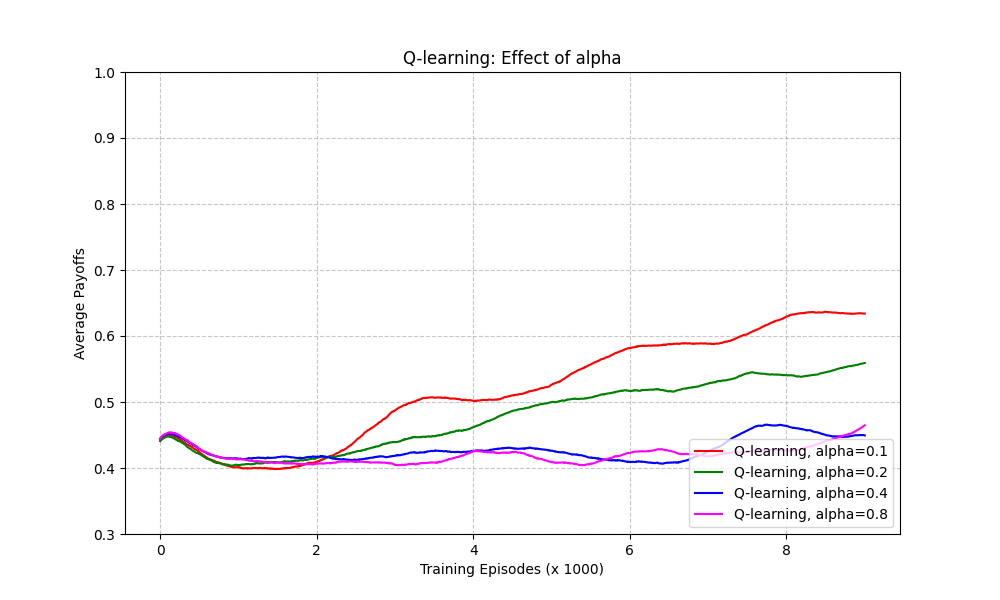
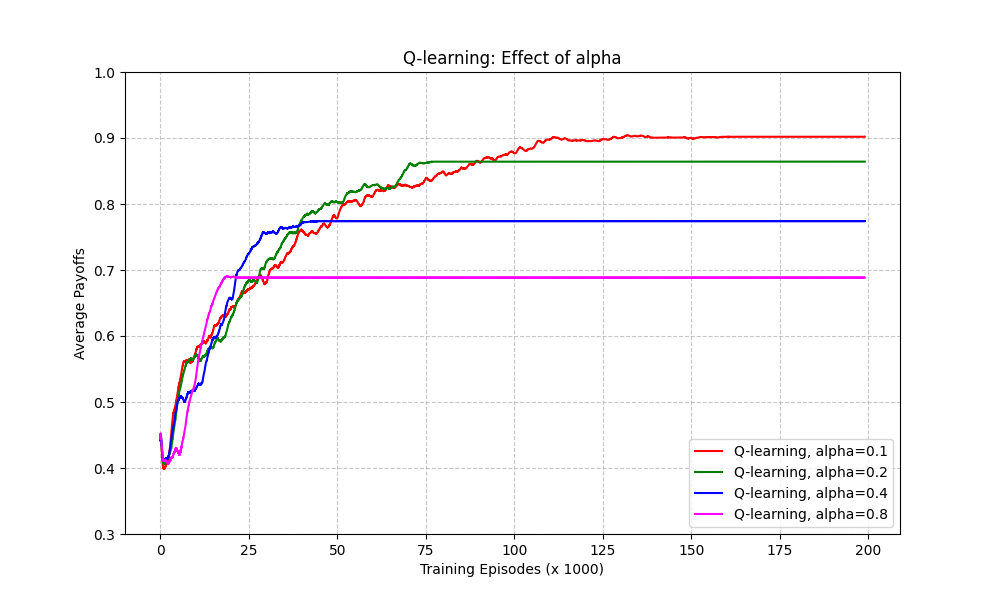
correct episodes + gifure 4a first try

diff --git a/main.py b/main.py
@@ -9,7 +9,7 @@ from src.agents.ck_colf import CKCoLFAgent
 def main():
     # Experimental Setup from Source [1, 2]
     env = MASDEnv(N=3, M=3, k=0.66)
-    episodes = 20000
+    episodes = 200000
     trials = 100
     viz = DataVisualizer()
 
